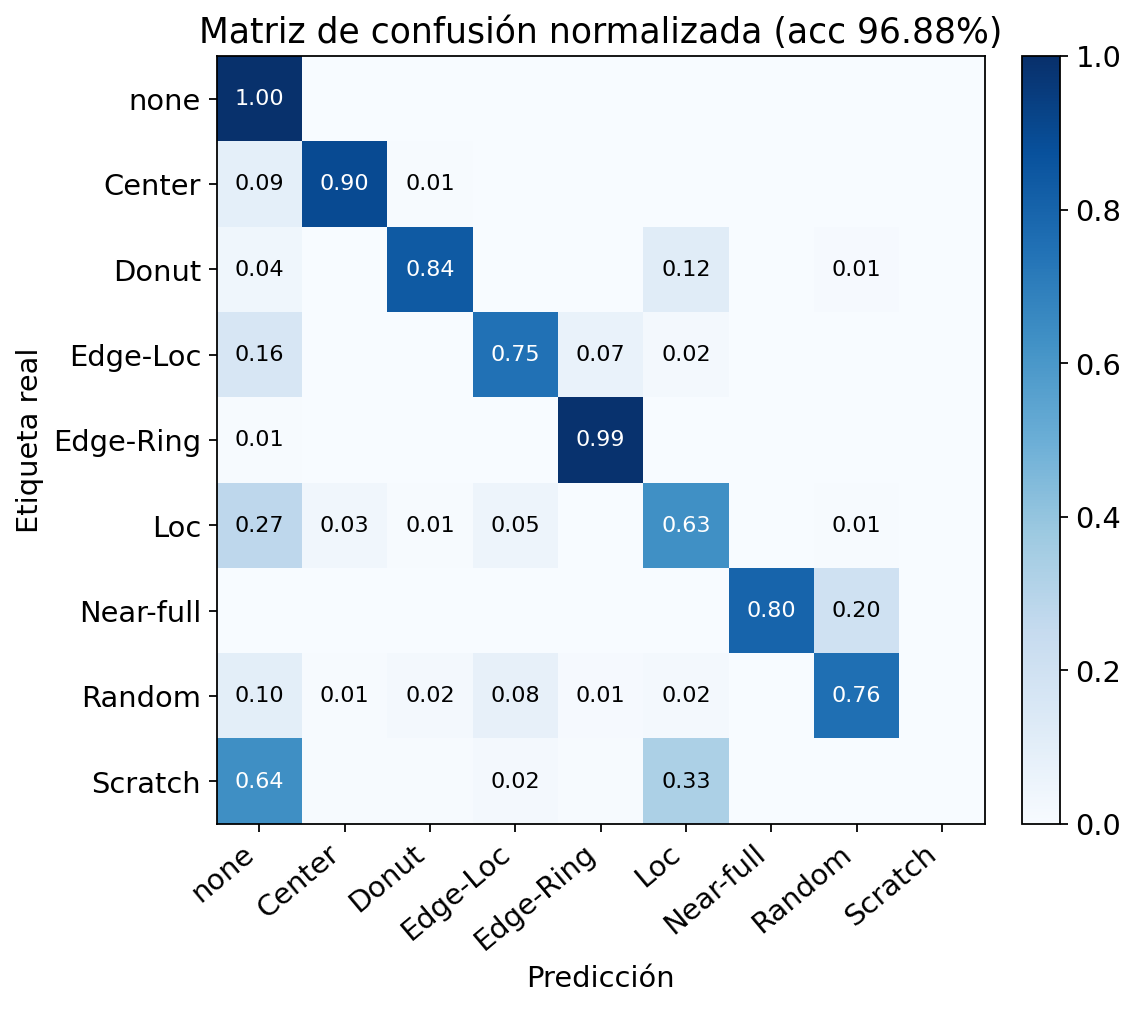
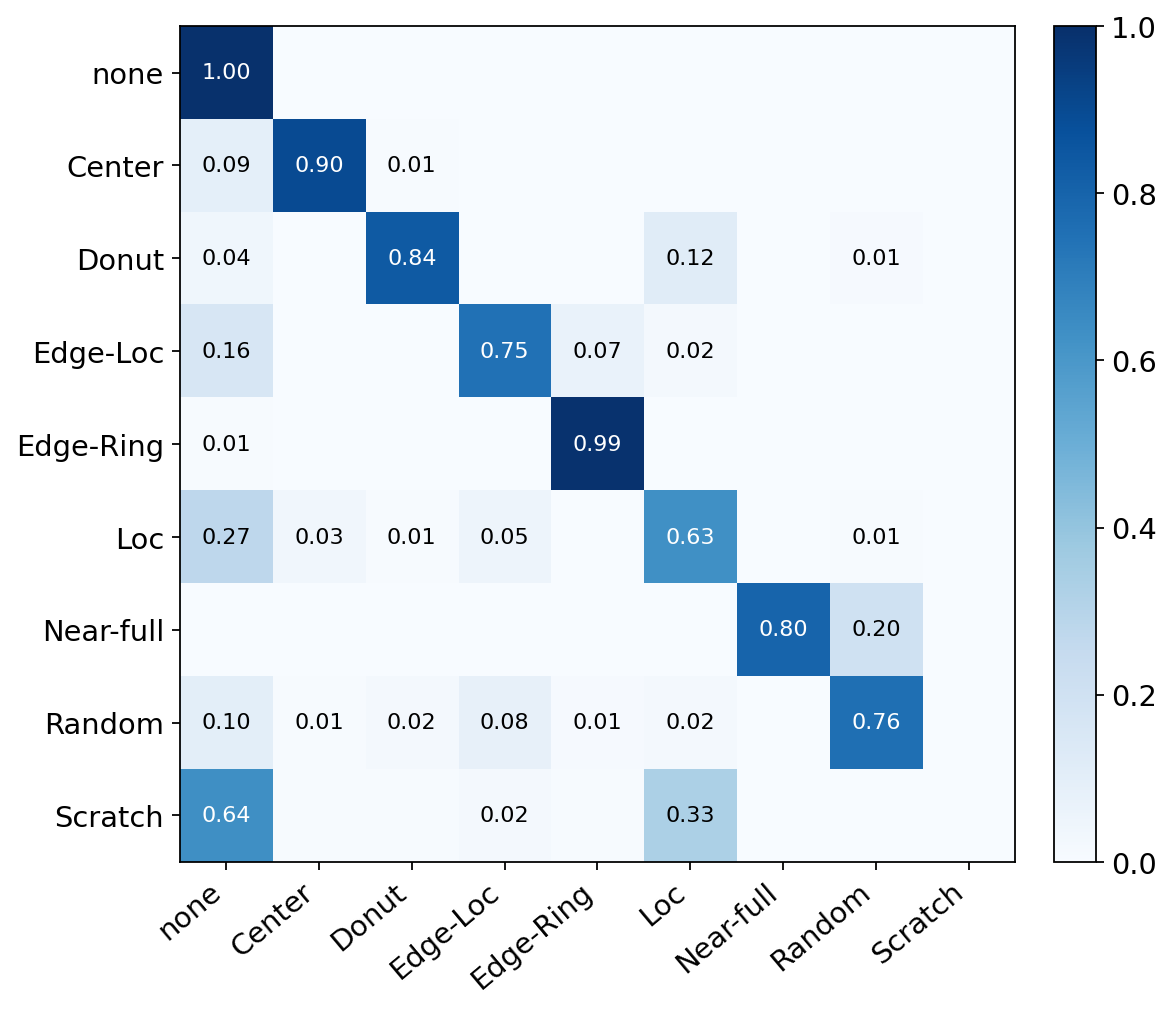
agy fixes stuff

diff --git a/research/experiments/exp_case1_full.py b/research/experiments/exp_case1_full.py
@@ -200,8 +200,7 @@ ax12a.grid(True, alpha=0.25)
 ax12b.plot(t_arr, xw_ref, color="#1f77b4", lw=1.0, label="Desired step position")
 ax12b.set_ylabel("X position (m)"); ax12b.set_xlabel("Time (s)")
 ax12b.legend(fontsize=9, loc="upper left"); ax12b.grid(True, alpha=0.25)
-fig1.suptitle("Fig. 12 -- Desired Step-and-Scan Trajectories (Case 1, full model)",
-             fontsize=10)
+
 fig1.tight_layout()
 fig1.savefig(os.path.join(fig_dir, "case1_fig12_trajectories.png"), dpi=150,
             bbox_inches="tight")
@@ -221,8 +220,7 @@ for ax_t, err, lbl, col in [
     for t0, t1 in exp_windows:
         ax_t.axvspan(t0, t1, alpha=0.18, color="purple")
 axes[3].set_xlabel("Time (s)", fontsize=11)
-fig2.suptitle("Tracking error, Case 1 (no fine stages, full model)\n"
-             "Shaded bands: exposure windows", fontsize=13, fontweight="bold")
+
 fig2.savefig(os.path.join(fig_dir, "case1_tracking_errors.png"), dpi=150,
             bbox_inches="tight")
 print("Saved case1_tracking_errors.png")
@@ -245,8 +243,7 @@ axmsd.set_ylabel("Moving std. dev. (m)", fontsize=11); axmsd.set_xlabel("Time (s
 axmsd.ticklabel_format(axis="y", style="sci", scilimits=(0, 0))
 axmsd.set_ylim(0, MSD_LIM); axmsd.legend(fontsize=9, loc="upper right")
 axmsd.grid(True, alpha=0.2)
-fig3.suptitle("MA/MSD performance indices, Case 1 (no fine stage, full model)",
-             fontsize=13, fontweight="bold")
+
 fig3.tight_layout()
 fig3.savefig(os.path.join(fig_dir, "case1_fig14_ma_msd.png"), dpi=150,
             bbox_inches="tight")
@@ -273,8 +270,7 @@ for ax_t in axes4:
     ax_t.set_xlabel("Time (s)", fontsize=9)
     for t0, t1 in exp_windows:
         ax_t.axvspan(t0, t1, alpha=0.1, color="purple")
-fig4.suptitle("Case 1 -- Stage Velocities and Coarse-vs-End-Effector Lag",
-             fontsize=11, fontweight="bold")
+
 fig4.tight_layout()
 fig4.savefig(os.path.join(fig_dir, "case1_velocity_lag.png"), dpi=150,
             bbox_inches="tight")
@@ -300,8 +296,7 @@ axes5[2].plot(t_arr[zm], lag_r[zm], "#ff7f0e", lw=1.2, label="Reticle lag (nm)")
 axes5[2].axvspan(tw0, tw1, alpha=0.18, color="purple")
 axes5[2].set_ylabel("Spring lag (nm)"); axes5[2].set_xlabel("Time (s)")
 axes5[2].legend(fontsize=8); axes5[2].grid(True, alpha=0.3)
-fig5.suptitle("Case 1 -- First Exposure Window (Zoomed)", fontsize=11,
-             fontweight="bold")
+
 fig5.tight_layout()
 fig5.savefig(os.path.join(fig_dir, "case1_exposure_zoom.png"), dpi=150,
             bbox_inches="tight")

diff --git a/research/experiments_alrawashdeh/exp_case1_full.py b/research/experiments_alrawashdeh/exp_case1_full.py
@@ -201,8 +201,7 @@ ax12a.grid(True, alpha=0.25)
 ax12b.plot(t_arr, xw_ref, color="#1f77b4", lw=1.0, label="Desired step position")
 ax12b.set_ylabel("X position (m)"); ax12b.set_xlabel("Time (s)")
 ax12b.legend(fontsize=9, loc="upper left"); ax12b.grid(True, alpha=0.25)
-fig1.suptitle("Fig. 12 -- Desired Step-and-Scan Trajectories (Case 1, full model)",
-             fontsize=10)
+
 fig1.tight_layout()
 fig1.savefig(os.path.join(fig_dir, "case1_fig12_trajectories.png"), dpi=150,
             bbox_inches="tight")
@@ -222,8 +221,7 @@ for ax_t, err, lbl, col in [
     for t0, t1 in exp_windows:
         ax_t.axvspan(t0, t1, alpha=0.18, color="purple")
 axes[3].set_xlabel("Time (s)", fontsize=11)
-fig2.suptitle("Tracking error, Case 1 (no fine stages, full model)\n"
-             "Shaded bands: exposure windows", fontsize=13, fontweight="bold")
+
 fig2.savefig(os.path.join(fig_dir, "case1_tracking_errors.png"), dpi=150,
             bbox_inches="tight")
 print("Saved case1_tracking_errors.png")
@@ -245,8 +243,7 @@ axmsd.set_ylabel("Moving std. dev. (m)", fontsize=11); axmsd.set_xlabel("Time (s
 axmsd.ticklabel_format(axis="y", style="sci", scilimits=(0, 0))
 axmsd.set_ylim(0, MSD_LIM); axmsd.legend(fontsize=9, loc="upper right")
 axmsd.grid(True, alpha=0.2)
-fig3.suptitle("MA/MSD performance indices, Case 1 (no fine stage, full model)",
-             fontsize=13, fontweight="bold")
+
 fig3.tight_layout()
 fig3.savefig(os.path.join(fig_dir, "case1_fig14_ma_msd.png"), dpi=150,
             bbox_inches="tight")
@@ -273,8 +270,7 @@ for ax_t in axes4:
     ax_t.set_xlabel("Time (s)", fontsize=9)
     for t0, t1 in exp_windows:
         ax_t.axvspan(t0, t1, alpha=0.1, color="purple")
-fig4.suptitle("Case 1 -- Stage Velocities and Coarse-vs-End-Effector Lag",
-             fontsize=11, fontweight="bold")
+
 fig4.tight_layout()
 fig4.savefig(os.path.join(fig_dir, "case1_velocity_lag.png"), dpi=150,
             bbox_inches="tight")
@@ -300,8 +296,7 @@ axes5[2].plot(t_arr[zm], lag_r[zm], "#ff7f0e", lw=1.2, label="Reticle lag (nm)")
 axes5[2].axvspan(tw0, tw1, alpha=0.18, color="purple")
 axes5[2].set_ylabel("Spring lag (nm)"); axes5[2].set_xlabel("Time (s)")
 axes5[2].legend(fontsize=8); axes5[2].grid(True, alpha=0.3)
-fig5.suptitle("Case 1 -- First Exposure Window (Zoomed)", fontsize=11,
-             fontweight="bold")
+
 fig5.tight_layout()
 fig5.savefig(os.path.join(fig_dir, "case1_exposure_zoom.png"), dpi=150,
             bbox_inches="tight")

diff --git a/remove_titles.py b/remove_titles.py
@@ -1,0 +1,25 @@
+import re
+import os
+
+files = [
+    "/Users/rtrevinnoc/maestria/tesis/research/experiments/exp_case1_full.py",
+    "/Users/rtrevinnoc/maestria/tesis/research/experiments_alrawashdeh/exp_case1_full.py",
+    "/Users/rtrevinnoc/maestria/tesis/research/nn/cnn/evaluate_model.py"
+]
+
+for f in files:
+    if not os.path.exists(f): continue
+    with open(f, "r") as file:
+        content = file.read()
+    
+    # Remove suptitle calls
+    content = re.sub(r'fig\d\.suptitle\([^)]+\)', '', content)
+    # Also handle multiline suptitle calls
+    content = re.sub(r'fig\d\.suptitle\([^)]+\n[^)]+\)', '', content)
+    
+    # Remove ax.set_title in evaluate_model
+    content = re.sub(r"ax\.set_title\([^)]+\)", "", content)
+
+    with open(f, "w") as file:
+        file.write(content)
+    print(f"Removed titles from {f}")

diff --git a/research/nn/cnn/evaluate_model.py b/research/nn/cnn/evaluate_model.py
@@ -69,9 +69,7 @@ def main():
     ax.set_yticks(range(9))
     ax.set_xticklabels(class_names, rotation=40, ha='right')
     ax.set_yticklabels(class_names)
-    ax.set_xlabel('Predicción')
-    ax.set_ylabel('Etiqueta real')
-    ax.set_title(f'Matriz de confusión normalizada (acc {acc:.2f}%)')
+
 
     for i in range(9):
         for j in range(9):
